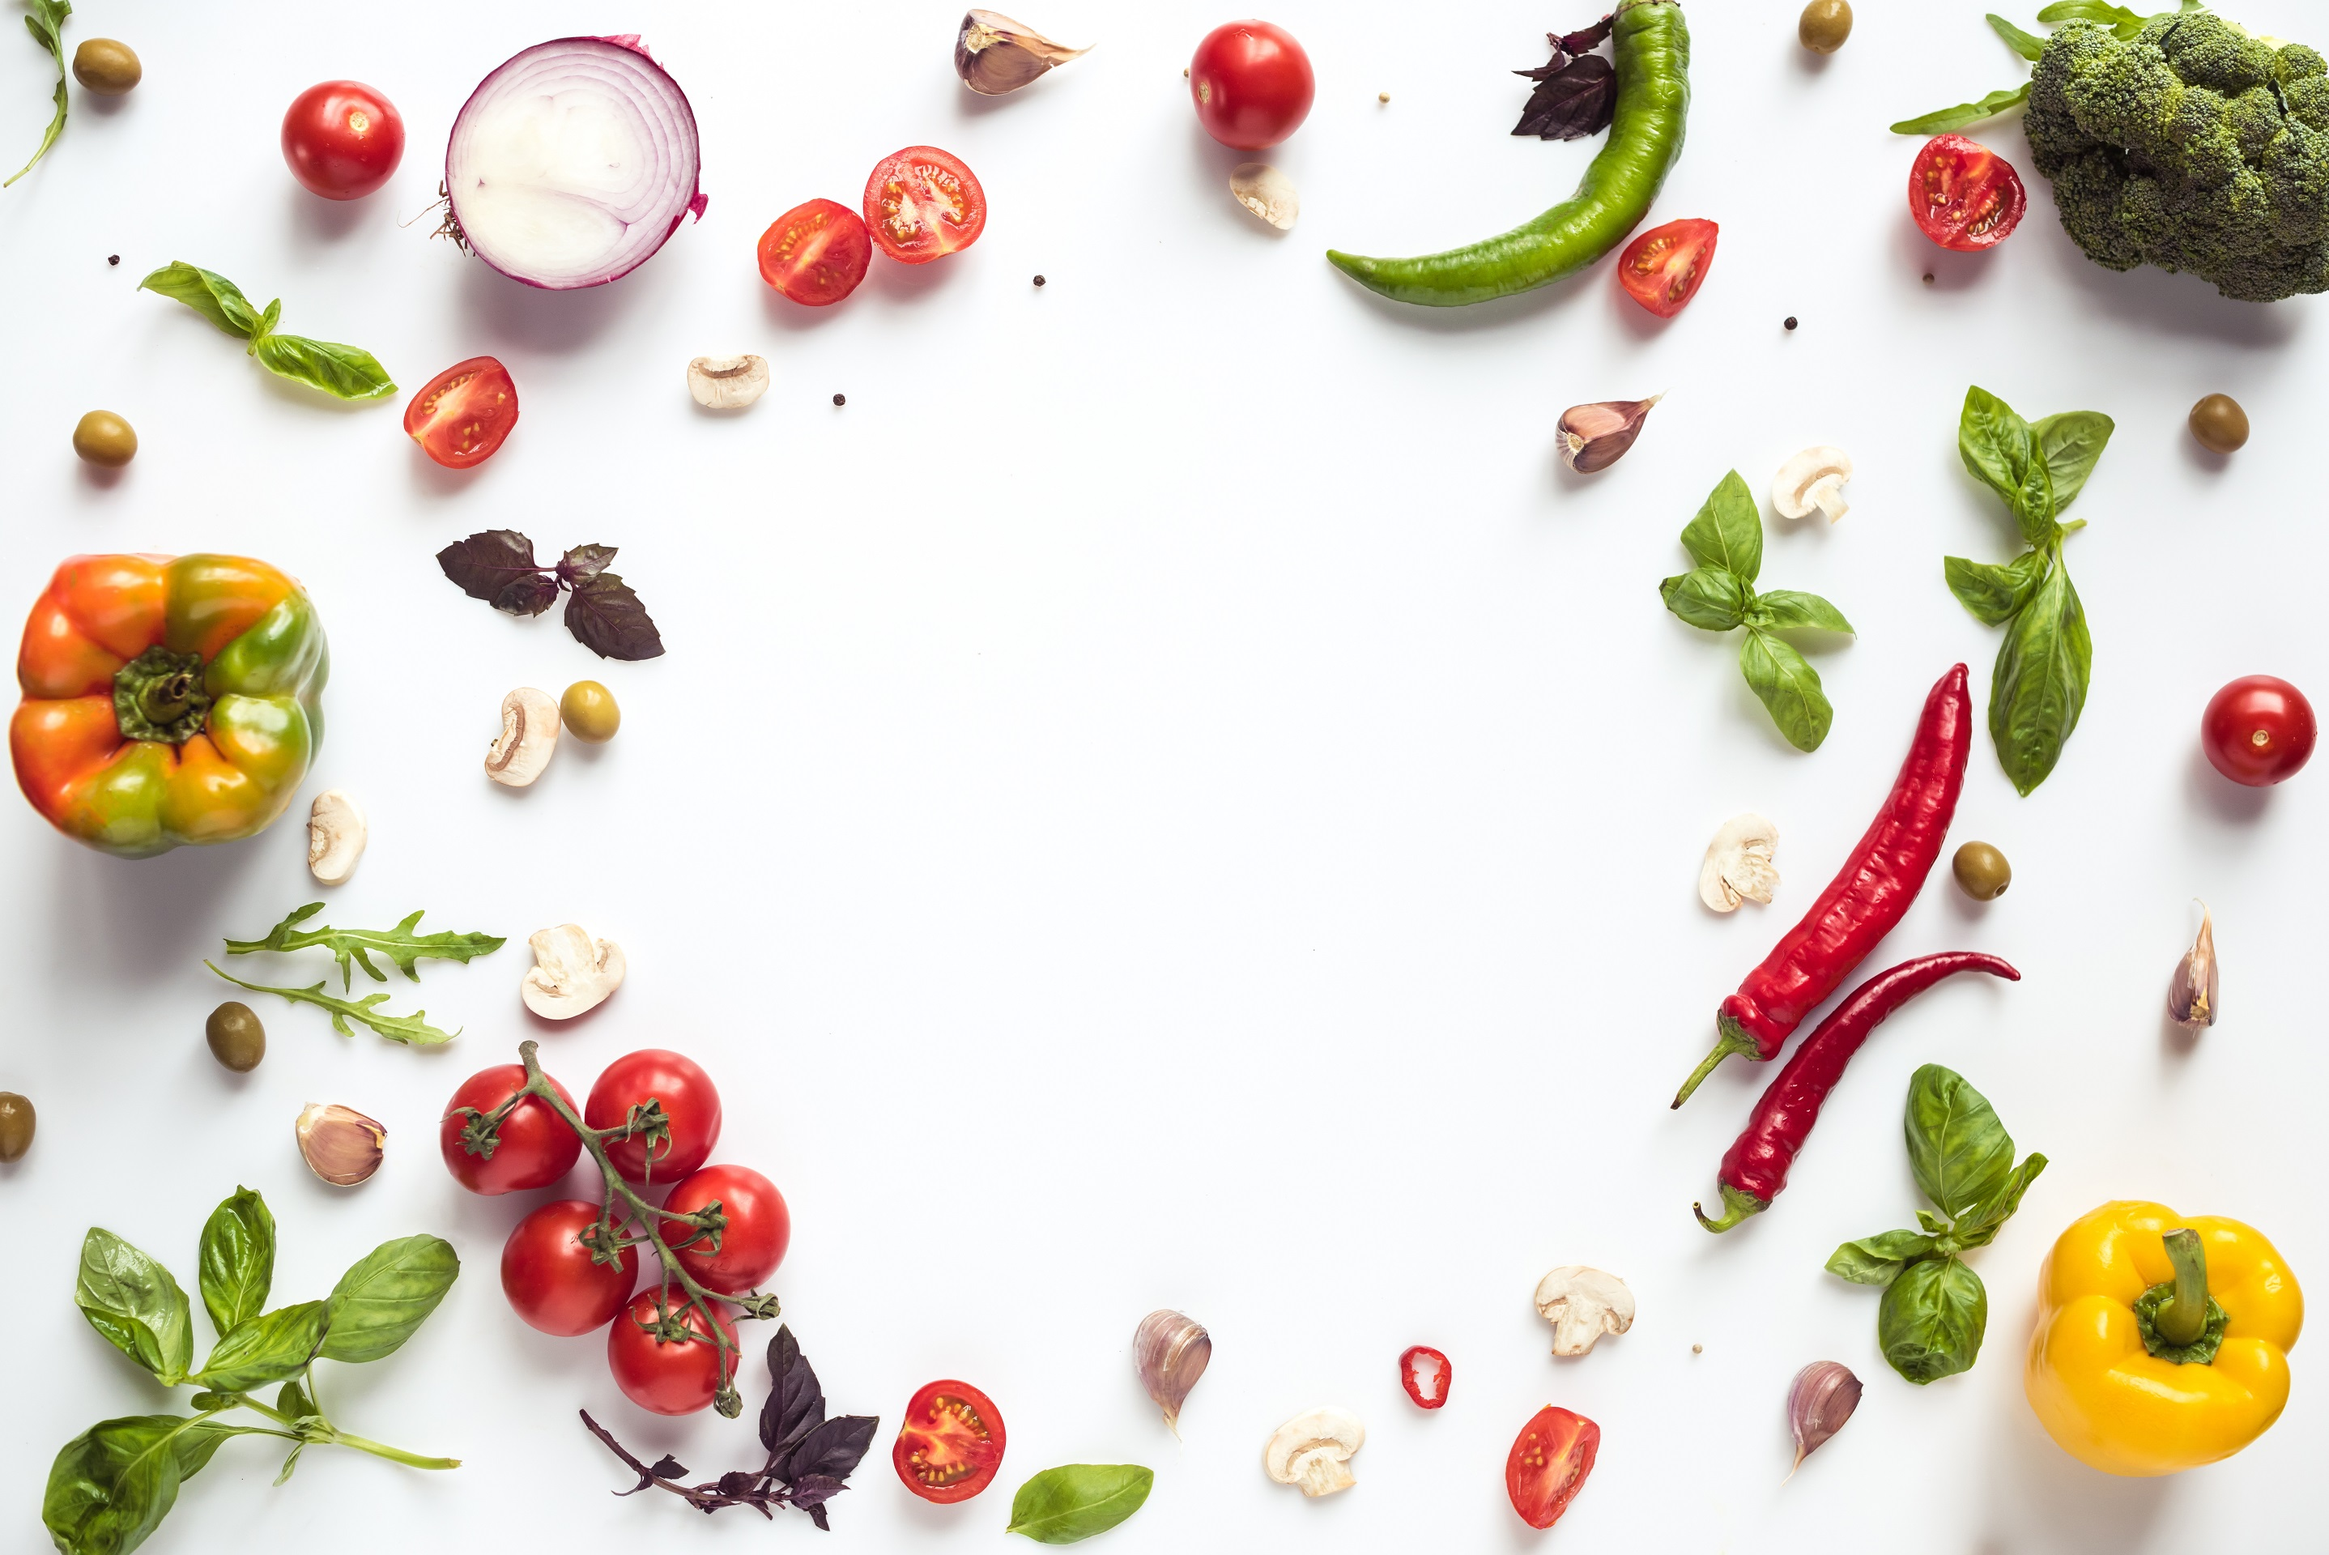
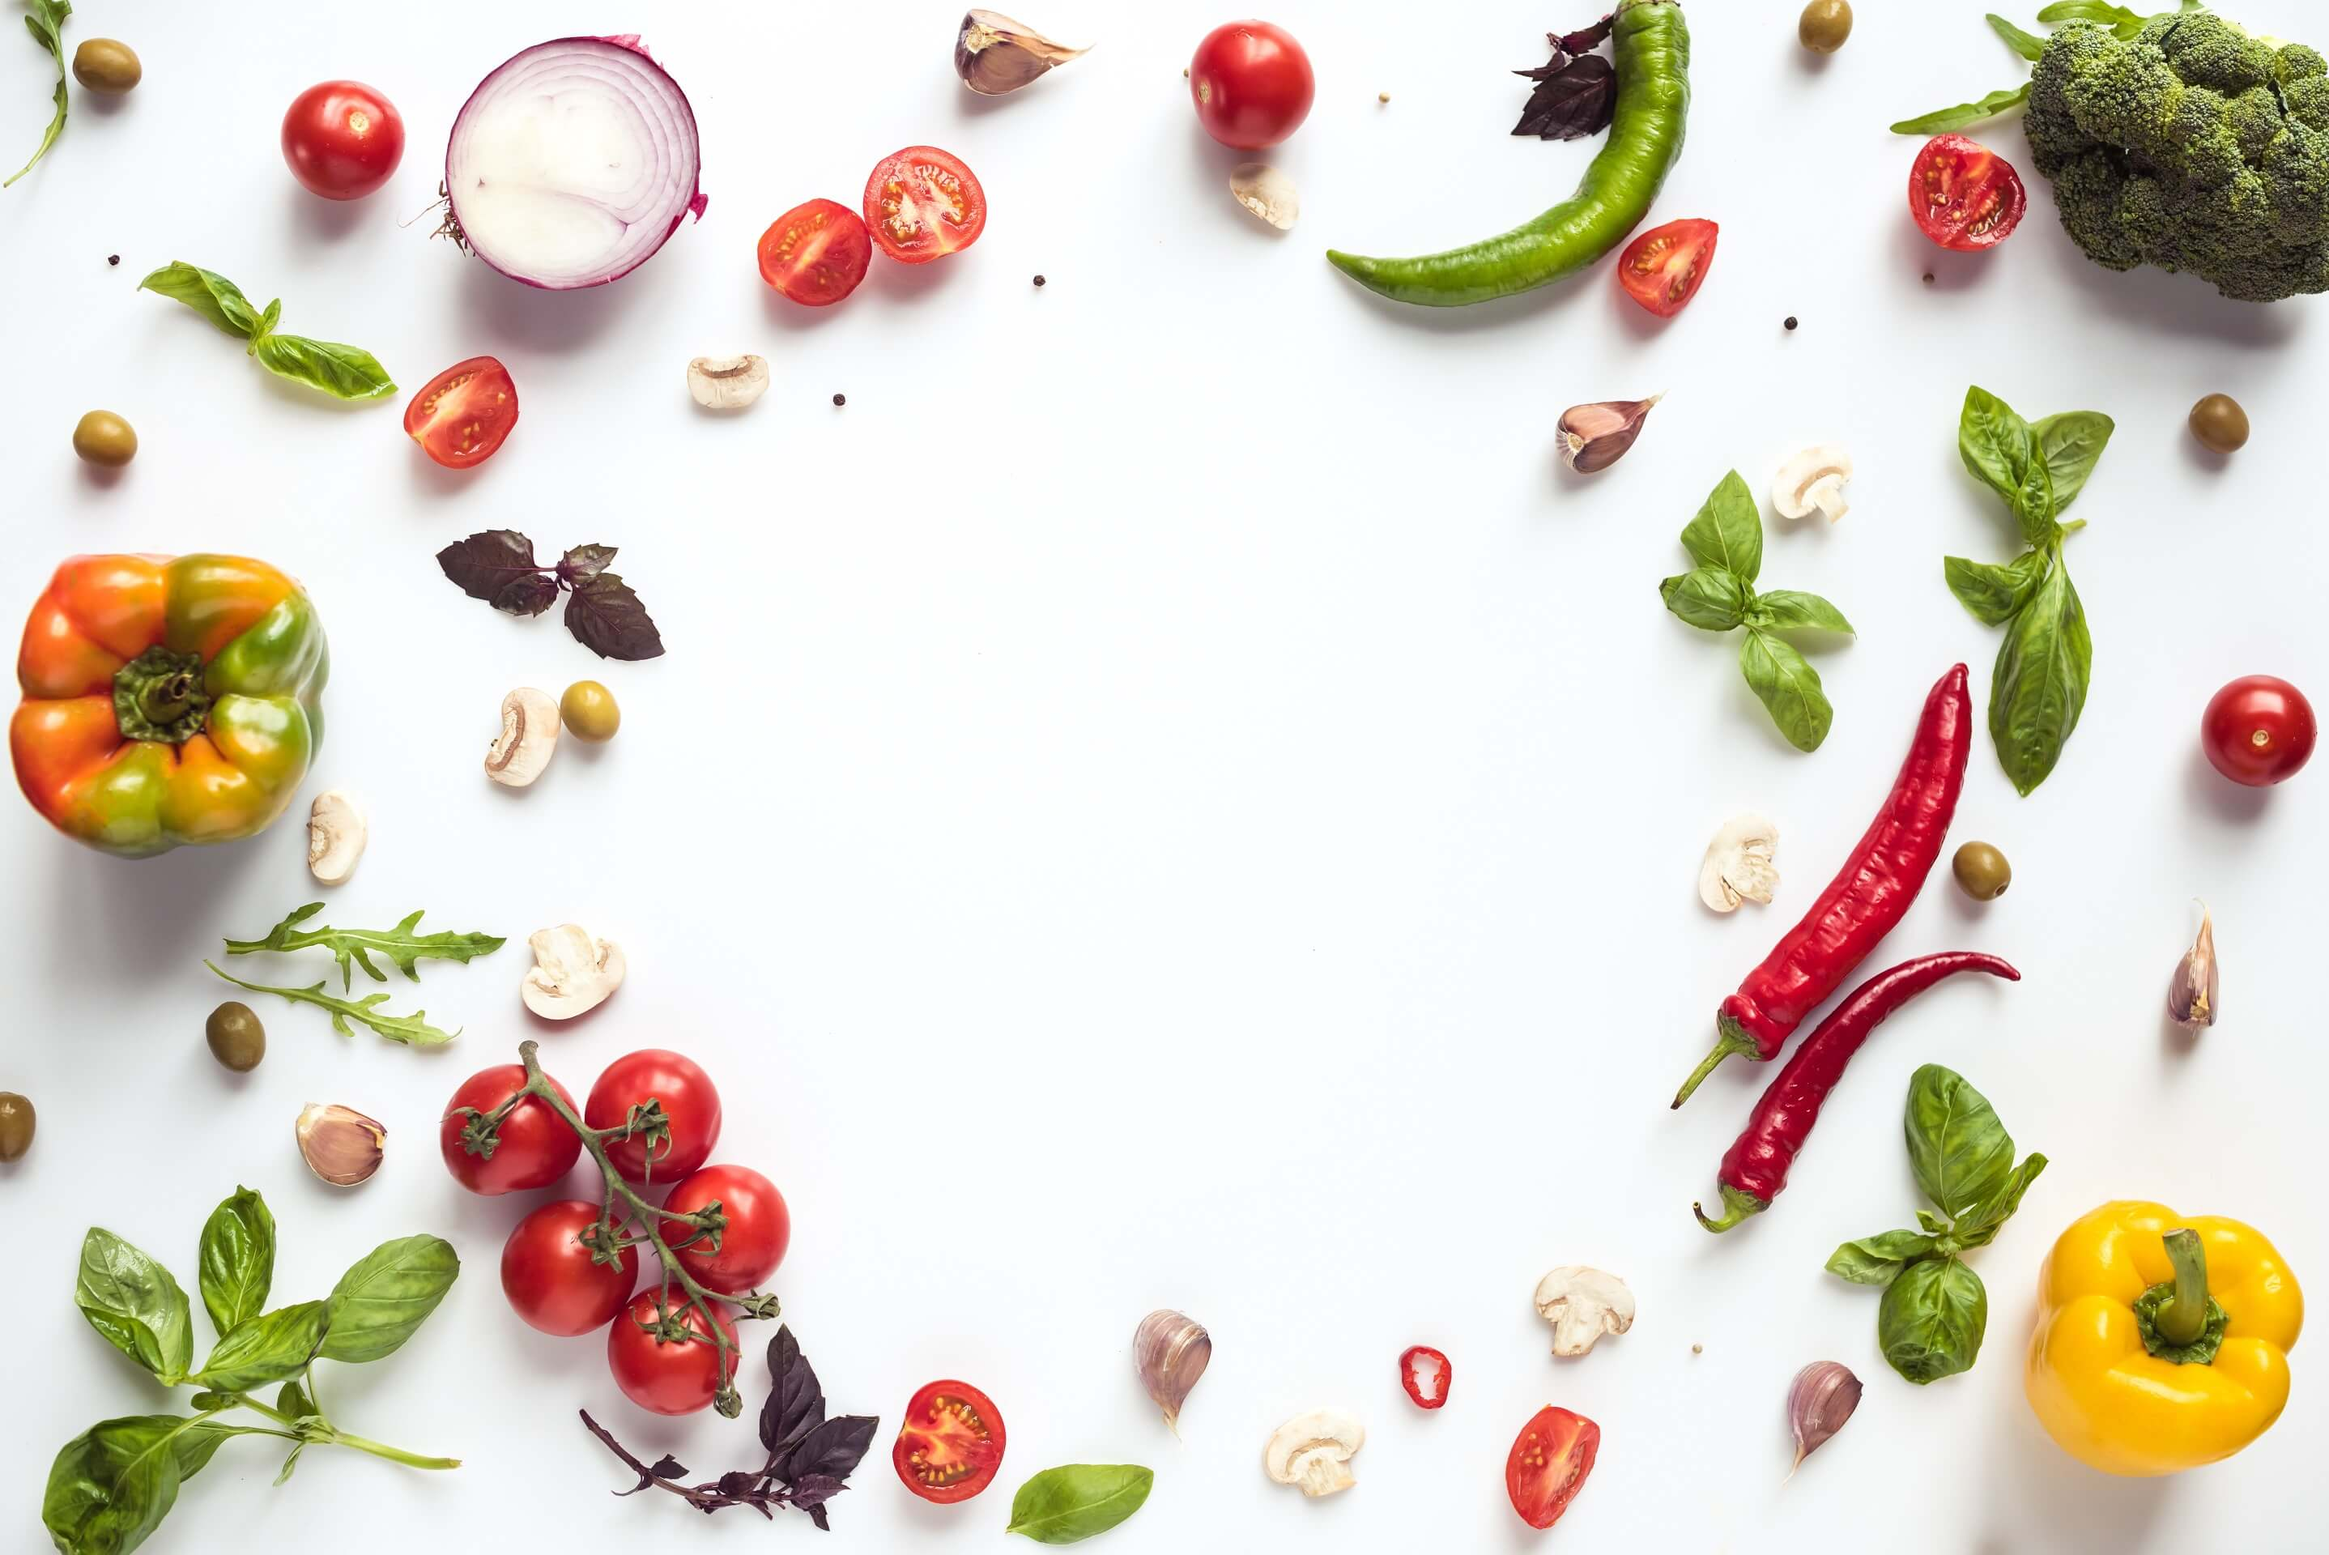
Lean of filter and search app.py code, compress images with tinyjpg.com, add missing alt to images

Changed region(s): [[0.8974, 0.0, 1.0, 0.125], [0.3713, 0.0938, 0.4023, 0.125]]

diff --git a/templates/_navbar.html b/templates/_navbar.html
@@ -1,7 +1,7 @@
 {% block content %}
 <nav>
   <div class="nav-wrapper black">
-    <a href="{{ url_for('index') }}" class="brand-logo left tooltipped" data-position="bottom" data-tooltip="Welcome page"><img src="/static/images/logo2.png" class="margin-small-up margin-from-left" width="195"
+    <a href="{{ url_for('index') }}" class="brand-logo left tooltipped" data-position="bottom" data-tooltip="Welcome page"><img alt="Page Logo Photo" src="/static/images/logo2.png" class="margin-small-up margin-from-left" width="195"
         height="auto"></a>
     <a href="#" data-target="mobile-demo" class="sidenav-trigger"><i class="material-icons">menu</i></a>
     <ul class="right hide-on-med-and-down">
@@ -27,7 +27,7 @@
 
 <!--  ########################  Navbar/mobile ###########################   -->
 <ul class="sidenav" id="mobile-demo">
-  <li><a href="{{ url_for('index') }}" class="brand-logo left"><img src="/static/images/logo1.png" width="210"
+  <li><a href="{{ url_for('index') }}" class="brand-logo left"><img alt="Page Logo Photo" src="/static/images/logo1.png" width="210"
         height="auto" style="margin-left: 2rem"></a></li>
   <li class="{% if 'chart' in request.path and 'profile' not in request.path %} active {% endif %}"><a href="{{ url_for('chart', count_key='author') }}" style="margin-top: 5rem"><i class="material-icons">show_chart</i>CHARTS</a></li>
   <li class="{% if 'recipes' in request.path and 'profile' not in request.path %} active {% endif %}"><a href="{{ url_for('get_recipes', limit=8, offset=0) }}"><i

diff --git a/templates/index.html b/templates/index.html
@@ -3,21 +3,21 @@
 <div class="slider">
   <ul class="slides">
     <li>
-      <img src="static/images/2.jpg" />
+      <img alt="Kitchen Table" src="static/images/2.jpg" />
       <div class="caption center-align gray-background">
         <h3 class="black-text">This is our big Tagline!</h3>
         <h5 class="light black-text text-lighten-3">Here's our small slogan.</h5>
       </div>
     </li>
     <li>
-      <img src="static/images/3.jpg" />
+      <img alt="Man and Woman preparing dish" src="static/images/3.jpg" />
       <div class="caption left-align gray-background">
         <h3>Left Aligned Caption</h3>
         <h5 class="light grey-text text-lighten-3">Here's our small slogan.</h5>
       </div>
     </li>
     <li>
-      <img src="static/images/4.jpg" />
+      <img alt="Restaurant table at dusk" src="static/images/4.jpg" />
       <div class="caption right-align gray-background">
         <h3>Right Aligned Caption</h3>
         <h5 class="light grey-text text-lighten-3">Here's our small slogan.</h5>

diff --git a/templates/recipesTemplateCards.html b/templates/recipesTemplateCards.html
@@ -3,7 +3,7 @@
 
 
     <div class="card-image">
-      <img id="padded" src="{{recipe.photo}}" alt="{{recipe.meal}}" class="materialboxed" data-caption="{{ recipe.meal }}">
+      <img src="{{recipe.photo}}" alt="{{recipe.meal}}" class="padded materialboxed" data-caption="{{ recipe.meal }}">
       <a class="btn-floating {% if recipe.upvotes > 99 %} btn-large {% endif %}halfway-fab orange lighten-4">
         <p id="upvotes" class="center-align halfway indigo-text"><i id="upvotes_icon"
             class="material-icons red-text">favorite</i>{{recipe.upvotes}}</p>
@@ -11,7 +11,7 @@
     </div>
 
 
-    <div id="padding-5px" class="card-content">
+    <div class="padding-5px card-content">
       <h6 class="truncate card-title grey-text text-darken-4 center-align">
         {{recipe.meal}}
       </h6>
@@ -26,6 +26,6 @@
       </div>
     </div>
 
-    
+
   </div>
 </div>

diff --git a/templates/base.html b/templates/base.html
@@ -1,9 +1,10 @@
 <!DOCTYPE html>
-<html>
+<html lang="en">
 
 <head>
   <meta name="viewport" content="width=device-width, initial-scale=1.0" />
-  <link rel="shortcut icon" href="../static/images/favicon.ico">
+  <meta name="CookBook" content="Flask project of CookBook - Code Institute Data Centric Development Milestone"/>
+  <link rel="shortcut icon" href="/static/images/favicon.ico">
   <link href="https://fonts.googleapis.com/icon?family=Material+Icons" rel="stylesheet">
   <link rel="stylesheet" href="https://cdnjs.cloudflare.com/ajax/libs/materialize/1.0.0/css/materialize.min.css">
   <link rel="stylesheet" href="{{url_for('static', filename='css/style.css')}}" type="text/css" />

diff --git a/templates/recipesTemplate.html b/templates/recipesTemplate.html
@@ -1,6 +1,6 @@
 <ul class="collection z-depth-3">
     <li class="collection-item avatar" style="padding-left: 110px">
-      <img src="{{recipe.photo}}" alt="{{recipe.meal}}" class="circle materialboxed">
+      <img alt="Recipe Photo" src="{{recipe.photo}}" alt="{{recipe.meal}}" class="circle materialboxed">
       <h3 class="teal-text center-align"><a href="{{ url_for('view_recipe', recipe_id=recipe._id) }}">{{recipe.meal}}</a></h3>
       <span class="indigo-text" style="padding-left: 5rem">Cuisine: {{recipe.cuisine}}</span>
       <span class="light-blue-text" style="padding-left: 5rem">Author: {{recipe.author}}</span>

diff --git a/static/css/style.css b/static/css/style.css
@@ -166,10 +166,10 @@ br.line-height-2, li.line-height-2 {
 
 /* Cards */
 
-#padded {
-  padding-left: 10px;
-  padding-top: 10px;
-  padding-right: 10px;
+.padded {
+  padding-left: 10px !important;
+  padding-top: 10px !important;
+  padding-right: 10px !important;
 }
 
 #upvotes {
@@ -181,9 +181,9 @@ br.line-height-2, li.line-height-2 {
   line-height: 12px;
 }
 
-#padding-5px {
-  padding-left: 5px;
-  padding-right: 5px;
+.padding-5px {
+  padding-left: 5px !important; 
+  padding-right: 5px !important;
 }
 
 .cards .card .card-action {

diff --git a/templates/recipes.html b/templates/recipes.html
@@ -16,7 +16,7 @@
           criteria. Try another search.</h6>
         {% else %}
         <h6 class="center-align black-text" style="line-height: 70%;">Found&nbsp;<strong
-            class="blue-text">{{ count }}</strong>
+            class="black-text">{{ count }}</strong>
           {% if count > 1 %}
           recipes
           {% else %}

diff --git a/app.py b/app.py
@@ -51,7 +51,7 @@ searchedRecipes = []
 
 
 ######################################################################
-#                             RECIPES
+#              RECIPES VIEW, SEARCH, FILTER ...
 ######################################################################
 
 
@@ -288,38 +288,7 @@ def filter_recipes():
             flash("Choose something before hit FILTER")
             return redirect(request.referrer)
     else:
-        # Pagination
-        # Request the limit from link
-        try:
-            p_limit = int(request.args['limit'])
-        except:
-            p_limit = 8
-        # Request the offset from link
-        # make sure is 0 or more to avoid erver error
-        try:
-            p_offset = int(request.args['offset'])
-            if p_offset < 0:
-                p_offset = 0
-        except:
-            p_offset = 0
-        # make sure  is not bigger or equal than recipes count
-        count = len(filtered_and_excluded_allergens)
-        if p_offset > count:
-            p_offset = count
-
-        recipes = (filtered_and_excluded_allergens)[p_offset:p_limit+p_offset]
-
-        return render_template("recipes.html",
-                               allergens=allergens_collection.find(),
-                               categories=category_list_sorted,
-                               count=count,
-                               cuisines=cuisine_list_sorted,
-                               next_url=f"/filterRecipes?limit={str(p_limit)}&offset={str(p_offset + p_limit)}",
-                               prev_url=f"/filterRecipes?limit={str(p_limit)}&offset={str(p_offset - p_limit)}",
-                               p_limit=p_limit,
-                               p_offset=p_offset,
-                               recipes=recipes,
-                               title="Filtered Recipes")
+        return redirect(url_for('index'))
 
 ############################### SEARCH RECIPES ###############################
 
@@ -364,38 +333,7 @@ def search_recipes():
             flash("Type in something before hit SEARCH")
             return redirect(request.referrer)
     else:
-        # Pagination
-        # Request the limit from link
-        try:
-            p_limit = int(request.args['limit'])
-        except:
-            p_limit = 8
-        # Request the offset from link
-        # make sure is 0 or more to avoid erver error
-        try:
-            p_offset = int(request.args['offset'])
-            if p_offset < 0:
-                p_offset = 0
-        except:
-            p_offset = 0
-        # make sure  is not bigger or equal than recipes count
-        count = len(searchedRecipes)
-        if p_offset > count:
-            p_offset = count
-
-        recipes = (searchedRecipes)[p_offset:p_limit+p_offset]
-
-        return render_template("recipes.html",
-                               allergens=allergens_collection.find(),
-                               categories=category_list_sorted,
-                               count=count,
-                               cuisines=cuisine_list_sorted,
-                               next_url=f"/searchRecipes?limit={str(p_limit)}&offset={str(p_offset + p_limit)}",
-                               prev_url=f"/searchRecipes?limit={str(p_limit)}&offset={str(p_offset - p_limit)}",
-                               p_limit=p_limit,
-                               p_offset=p_offset,
-                               recipes=recipes,
-                               title="Searched Recipes")
+        return redirect(url_for('index'))
 
 ############################### ADD RECIPE ###############################
 
